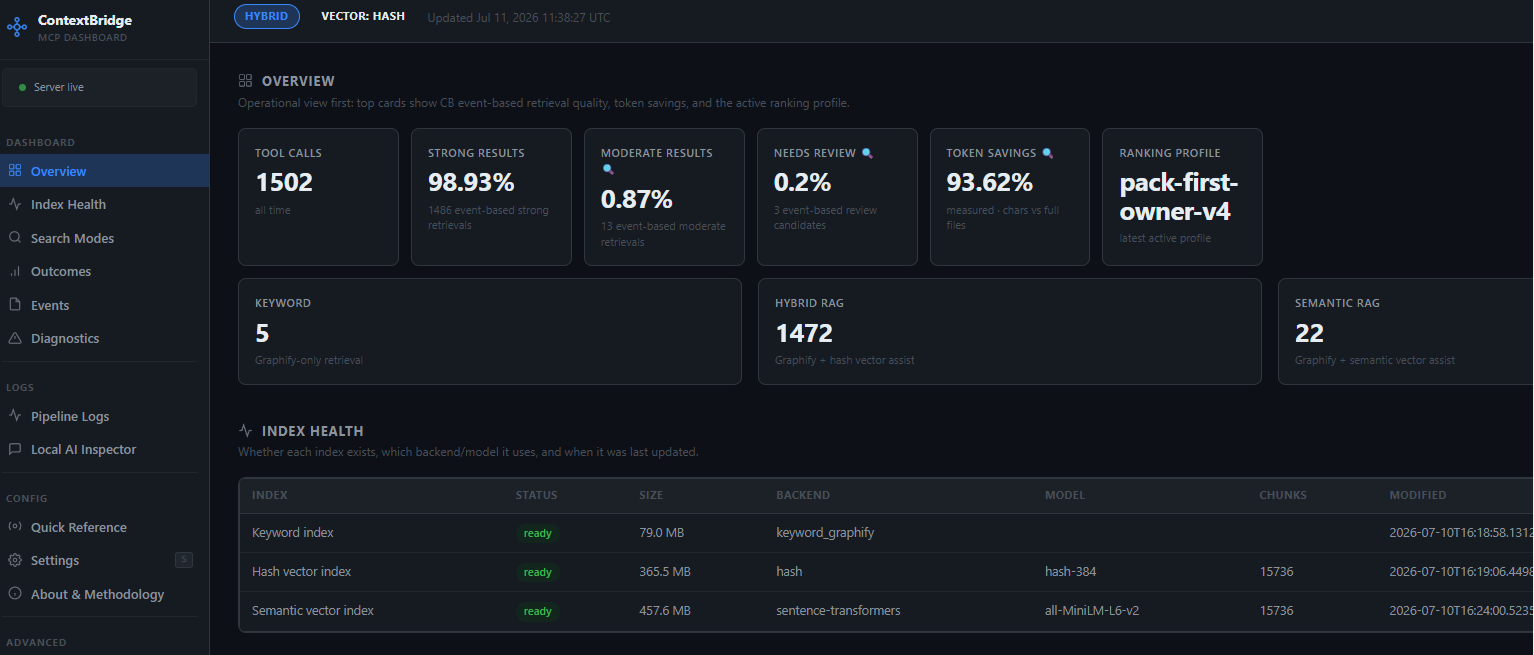
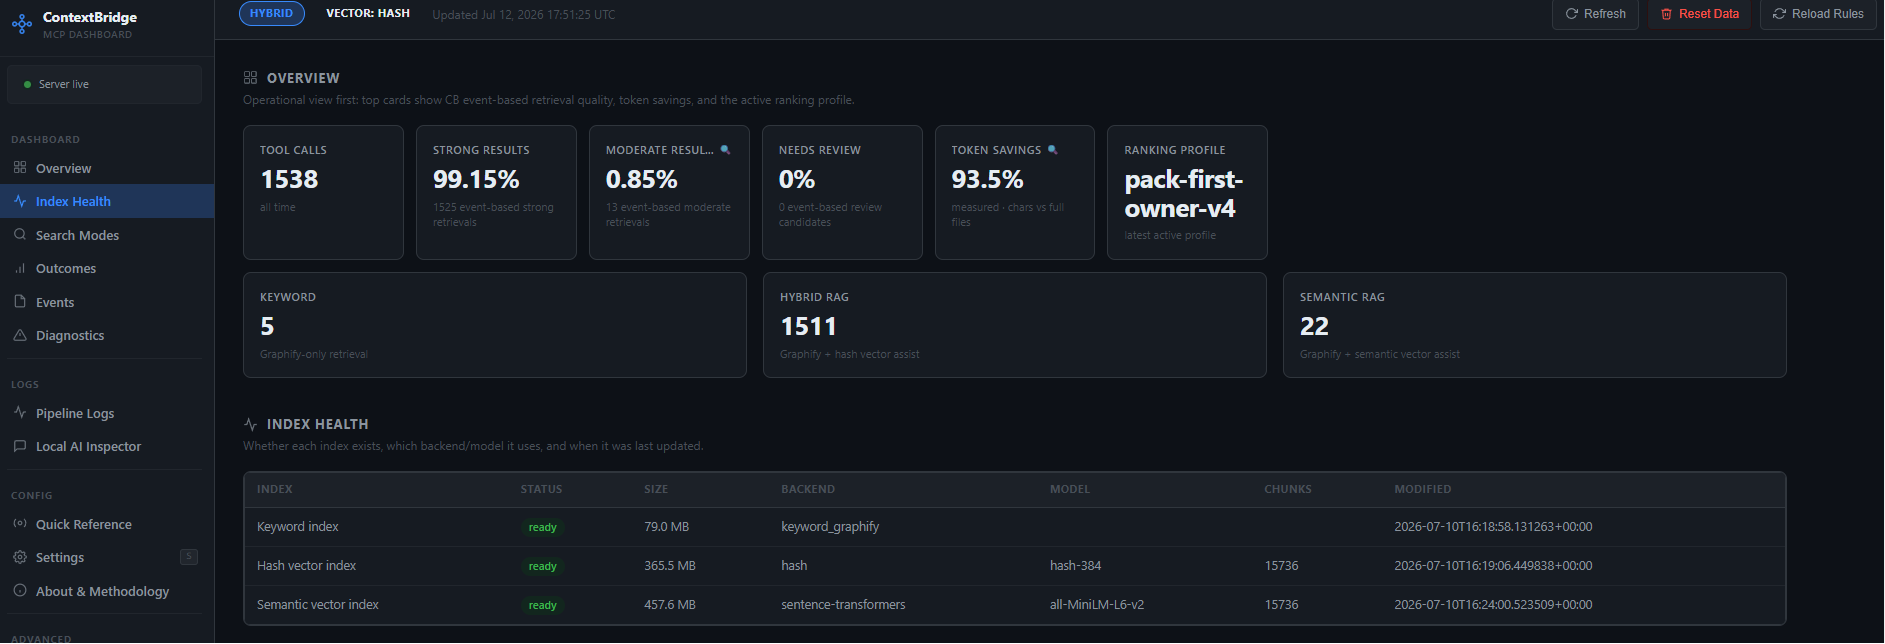
Readme Update

diff --git a/README.md b/README.md
@@ -43,6 +43,16 @@ The engine is **generic**. All project-specific ranking lives in a swappable
 
 ---
 
+## Architecture
+
+How your code flows through ContextBridge to your AI agent:
+
+<p align="center">
+  <img src="docs/assets/architecture.png" alt="ContextBridge architecture and data flow" width="720">
+</p>
+
+---
+
 ## Dashboard
 
 ContextBridge ships with a local dashboard for monitoring retrieval quality, index health, and config — no cloud dependency.